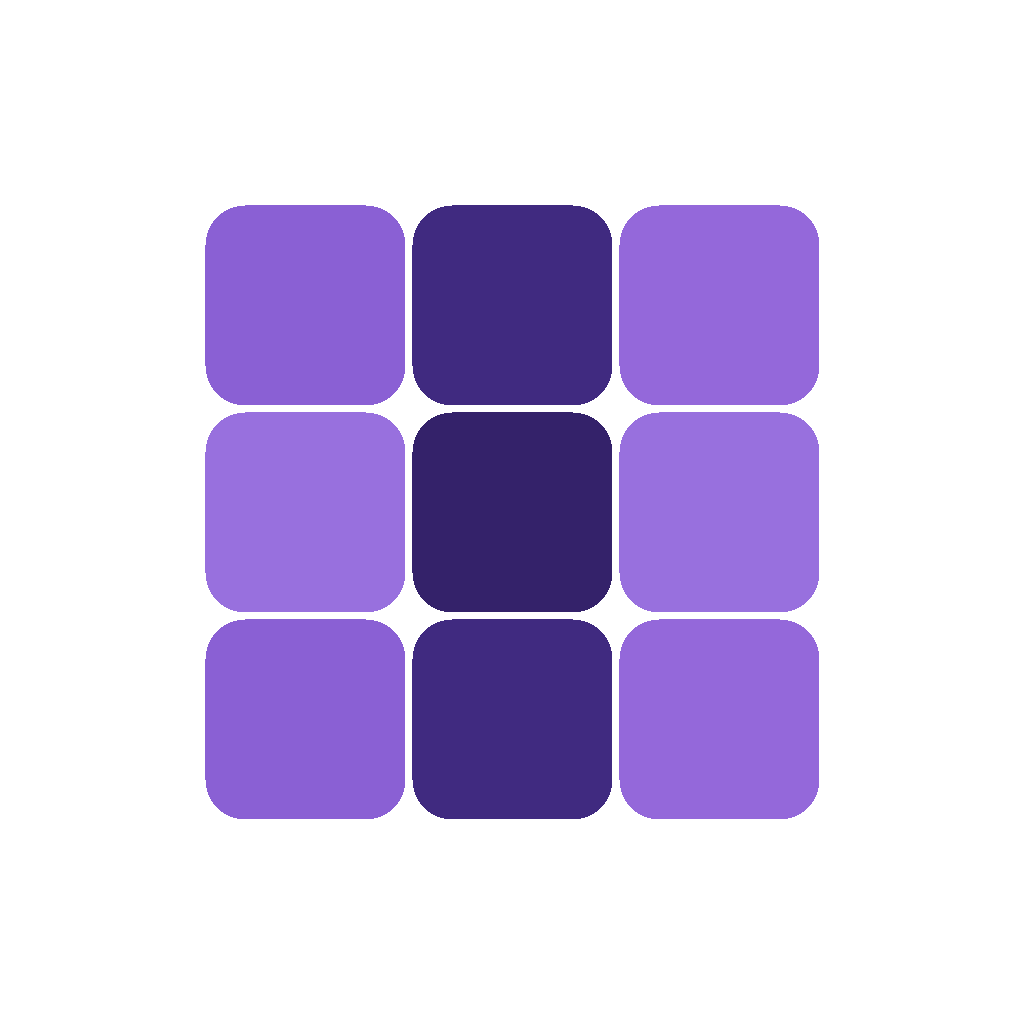
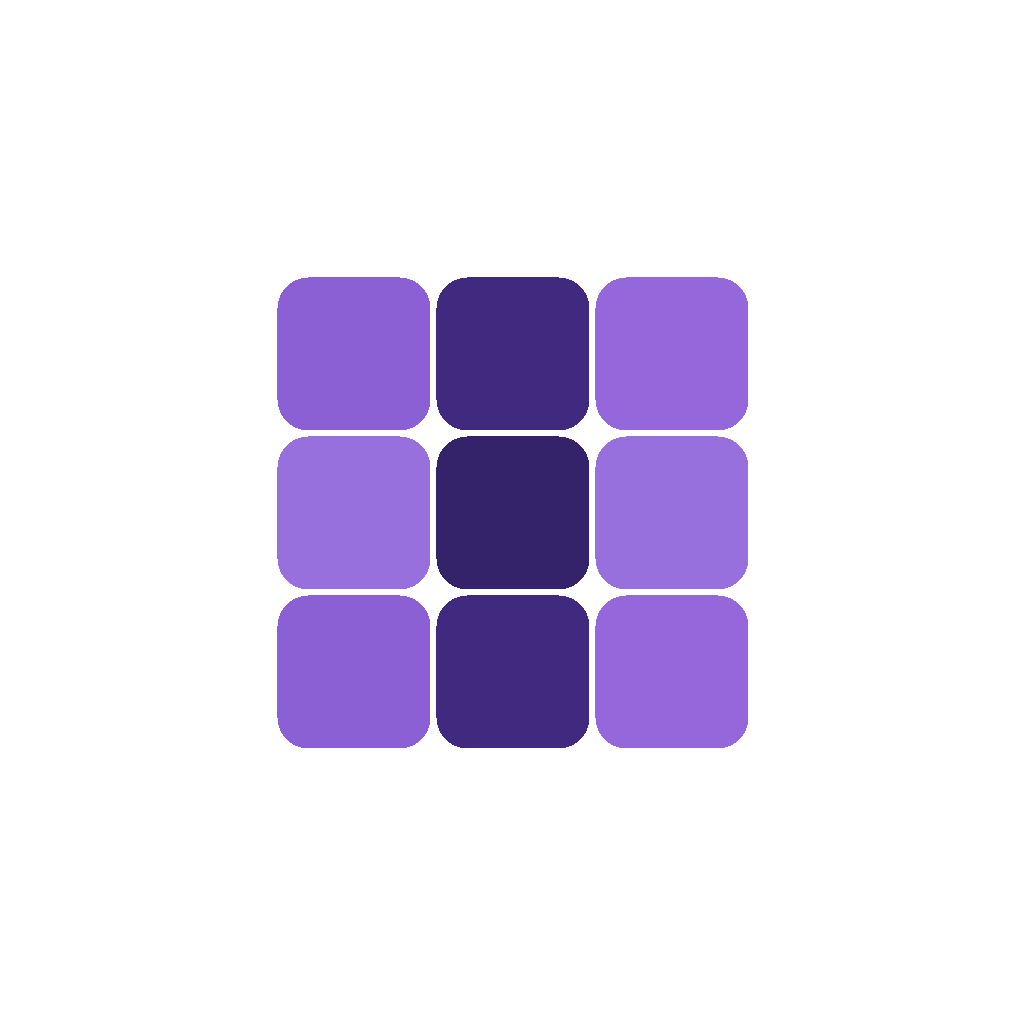
Phani/DP - UI fixes 24/04/2026 (2)

Changed region(s): [[0.1875, 0.1875, 0.8125, 0.8125]]

diff --git a/src/api/rooms.ts b/src/api/rooms.ts
@@ -6,6 +6,67 @@ import client from './client';
 import { RoomType, RoomDimensions, SavedDesign, ZoneRow } from '../types';
 import { ROOM_EMOJIS } from '../utils/format';
 
+// ── ZoneRow pattern packing ─────────────────────────────────
+// The backend Mongoose schema only stores a fixed set of ZoneRow
+// fields.  Pattern fields (patternType, tileBId, tileBName,
+// tileBImageUri, tileBColor) are NOT in the schema and get
+// stripped on save.  To survive the round-trip we serialise them
+// into the `pattern` string field (which IS persisted) as JSON
+// and restore them on load.
+//
+// Packed format:  JSON string  { p, pt, bi, bn, bu, bc }
+//   p  = original pattern value (e.g. "solid")
+//   pt = patternType
+//   bi = tileBId
+//   bn = tileBName
+//   bu = tileBImageUri
+//   bc = tileBColor
+
+function hasPatternMeta(row: any): boolean {
+  return !!(row.patternType || row.tileBId || row.tileBName || row.tileBImageUri || row.tileBColor);
+}
+
+/** Pack pattern fields into the `pattern` string for persistence. */
+export function packZoneRows(rows: ZoneRow[]): ZoneRow[] {
+  return rows.map(row => {
+    if (!hasPatternMeta(row)) return row;
+    const packed = JSON.stringify({
+      p:  row.pattern ?? 'solid',
+      pt: row.patternType,
+      bi: row.tileBId,
+      bn: row.tileBName,
+      bu: row.tileBImageUri,
+      bc: row.tileBColor,
+    });
+    // Return a copy with pattern fields removed (backend would strip
+    // them anyway) and the packed JSON in `pattern`.
+    const { patternType, tileBId, tileBName, tileBImageUri, tileBColor, ...rest } = row as any;
+    return { ...rest, pattern: packed };
+  });
+}
+
+/** Unpack pattern fields from the `pattern` string after loading. */
+export function unpackZoneRows(rows: ZoneRow[]): ZoneRow[] {
+  return rows.map(row => {
+    const p = row.pattern;
+    if (!p || !p.startsWith('{')) return row; // plain string like "solid" — nothing to unpack
+    try {
+      const meta = JSON.parse(p);
+      return {
+        ...row,
+        pattern:       meta.p ?? 'solid',
+        patternType:   meta.pt,
+        tileBId:       meta.bi,
+        tileBName:     meta.bn,
+        tileBImageUri: meta.bu,
+        tileBColor:    meta.bc,
+      };
+    } catch {
+      return row; // corrupt JSON — leave as-is
+    }
+  });
+}
+
 export interface ApiRoom {
   _id: string; name: string; roomType: RoomType;
   dimensions: { length: number; width: number; height: number };
@@ -29,7 +90,9 @@ export interface ApiRoom {
 
 export function mapRoom(r: ApiRoom): SavedDesign {
   // Pick the best tile preview — prefer selected tile, then first zone row with an image
-  const firstImgRow = r.zoneRows?.find(zr => !!zr.tileImageUri);
+  const rawRows = r.zoneRows ?? [];
+  const rows = unpackZoneRows(rawRows);
+  const firstImgRow = rows.find(zr => !!zr.tileImageUri);
   return {
     id: r._id, name: r.name, roomType: r.roomType,
     emoji: ROOM_EMOJIS[r.roomType] ?? '🏠',
@@ -40,7 +103,7 @@ export function mapRoom(r: ApiRoom): SavedDesign {
     tileImageUri:   r.selectedTileImageUri || firstImgRow?.tileImageUri,
     tileColor:      r.selectedTileColor || firstImgRow?.color,
     // Full restore state
-    zoneRows:         r.zoneRows ?? [],
+    zoneRows:         rows,
     wallColor:        r.wallColor ?? '#f0ebe4',
     selectedTileSize: r.selectedTileSize ?? '12x12',
     selectedTileId:   r.selectedTileId ?? '',
@@ -64,7 +127,7 @@ export interface SaveRoomPayload {
 
 export const getRooms    = async (): Promise<SavedDesign[]> => { const { data } = await client.get<{ success: boolean; rooms: ApiRoom[] }>('/api/rooms'); return data.rooms.map(mapRoom); };
 export const getRoomById = async (id: string): Promise<ApiRoom> => { const { data } = await client.get<{ success: boolean; room: ApiRoom }>(`/api/rooms/${id}`); return data.room; };
-export const saveRoom    = async (p: SaveRoomPayload): Promise<SavedDesign> => { const { data } = await client.post<{ success: boolean; room: ApiRoom }>('/api/rooms', p); return mapRoom(data.room); };
-export const updateRoom  = async (id: string, p: Partial<SaveRoomPayload>): Promise<SavedDesign> => { const { data } = await client.put<{ success: boolean; room: ApiRoom }>(`/api/rooms/${id}`, p); return mapRoom(data.room); };
+export const saveRoom    = async (p: SaveRoomPayload): Promise<SavedDesign> => { const packed = { ...p, zoneRows: p.zoneRows ? packZoneRows(p.zoneRows) : [] }; const { data } = await client.post<{ success: boolean; room: ApiRoom }>('/api/rooms', packed); return mapRoom(data.room); };
+export const updateRoom  = async (id: string, p: Partial<SaveRoomPayload>): Promise<SavedDesign> => { const packed = p.zoneRows ? { ...p, zoneRows: packZoneRows(p.zoneRows) } : p; const { data } = await client.put<{ success: boolean; room: ApiRoom }>(`/api/rooms/${id}`, packed); return mapRoom(data.room); };
 export const deleteRoom  = async (id: string): Promise<void> => { await client.delete(`/api/rooms/${id}`); };
 export const calcTilesApi = async (dimensions: any, tileSize: any) => { const { data } = await client.post('/api/rooms/calculate', { dimensions, tileSize }); return data; };

diff --git a/src/api/inventory.ts b/src/api/inventory.ts
@@ -4,6 +4,7 @@
 
 import client from './client';
 import { InventoryItem, ApiResponse } from '../types';
+import { packZoneRows, unpackZoneRows } from './rooms';
 
 export interface CreateInventoryPayload {
   name:                 string;
@@ -44,7 +45,8 @@ export async function getInventory(filters?: {
   const url = query ? `/api/inventory?${query}` : '/api/inventory';
 
   const res = await client.get<ApiResponse<InventoryItem[]>>(url);
-  return res.data.data || [];
+  const items = res.data.data || [];
+  return items.map(item => ({ ...item, zoneRows: unpackZoneRows(item.zoneRows ?? []) }));
 }
 
 // ── Get single inventory item ──
@@ -53,25 +55,30 @@ export async function getInventoryItem(id: string): Promise<InventoryItem> {
   if (!res.data.success || !res.data.data) {
     throw new Error('Inventory item not found');
   }
-  return res.data.data;
+  const item = res.data.data;
+  return { ...item, zoneRows: unpackZoneRows(item.zoneRows ?? []) };
 }
 
 // ── Create inventory item ──
 export async function createInventory(payload: CreateInventoryPayload): Promise<InventoryItem> {
-  const res = await client.post<ApiResponse<InventoryItem>>('/api/inventory', payload);
+  const packed = { ...payload, zoneRows: packZoneRows(payload.zoneRows ?? []) };
+  const res = await client.post<ApiResponse<InventoryItem>>('/api/inventory', packed);
   if (!res.data.success || !res.data.data) {
     throw new Error(res.data.message || 'Failed to create inventory item');
   }
-  return res.data.data;
+  const item = res.data.data;
+  return { ...item, zoneRows: unpackZoneRows(item.zoneRows ?? []) };
 }
 
 // ── Update inventory item ──
 export async function updateInventory(id: string, payload: Partial<CreateInventoryPayload>): Promise<InventoryItem> {
-  const res = await client.put<ApiResponse<InventoryItem>>(`/api/inventory/${id}`, payload);
+  const packed = payload.zoneRows ? { ...payload, zoneRows: packZoneRows(payload.zoneRows) } : payload;
+  const res = await client.put<ApiResponse<InventoryItem>>(`/api/inventory/${id}`, packed);
   if (!res.data.success || !res.data.data) {
     throw new Error(res.data.message || 'Failed to update inventory item');
   }
-  return res.data.data;
+  const item = res.data.data;
+  return { ...item, zoneRows: unpackZoneRows(item.zoneRows ?? []) };
 }
 
 // ── Delete inventory item ──

diff --git a/scripts/gen-icons.js b/scripts/gen-icons.js
@@ -87,15 +87,17 @@ function drawGrid(png, cx, cy, gs, gap) {
 }
 
 // ── 1. Main icon (used by iOS + web fallback) ─────────────────
-// Full-bleed dark background + centred tile grid at 64% of canvas.
+// Full-bleed dark background + centred tile grid.
+// iOS clips to a squircle (~10% off each edge), so keep the grid
+// well inside: 52% of canvas gives clean padding on all sides.
 async function genMainIcon() {
   const png = makePNG(SIZE, SIZE);
 
   // Solid dark background (iOS clips to squircle, no need for rounded rect here)
   fillRect(png, 0, 0, SIZE, SIZE, 0, BG[0], BG[1], BG[2]);
 
-  // Grid: 64% of canvas, tiny gap (1.2% of grid)
-  const gs  = Math.round(SIZE * 0.64);
+  // Grid: 52% of canvas, tiny gap (1.2% of grid)
+  const gs  = Math.round(SIZE * 0.52);
   const gap = Math.max(6, Math.round(gs * 0.012));
   drawGrid(png, SIZE / 2, SIZE / 2, gs, gap);
 
@@ -105,11 +107,11 @@ async function genMainIcon() {
 
 // ── 2. Adaptive foreground (transparent bg, grid in safe zone) ─
 // Android safe zone = inner 66% of 1024 = 676px.
-// We use 60% so the grid sits comfortably inside with breathing room.
+// We use 46% so the grid sits comfortably inside with good padding.
 async function genForeground() {
   const png = makePNG(SIZE, SIZE);   // starts transparent
 
-  const gs  = Math.round(SIZE * 0.60);
+  const gs  = Math.round(SIZE * 0.46);
   const gap = Math.max(6, Math.round(gs * 0.012));
   drawGrid(png, SIZE / 2, SIZE / 2, gs, gap);
 
@@ -128,7 +130,7 @@ async function genBackground() {
 // ── 4. Monochrome (for Android themed icons) ──────────────────
 async function genMonochrome() {
   const png = makePNG(SIZE, SIZE);
-  const gs  = Math.round(SIZE * 0.60);
+  const gs  = Math.round(SIZE * 0.46);
   const gap = Math.max(6, Math.round(gs * 0.012));
   const ts  = Math.round((gs - gap * 2) / 3);
   const rad = Math.round(ts * 0.20);

diff --git a/src/three/room-builder.ts b/src/three/room-builder.ts
@@ -89,6 +89,8 @@ export function buildRoom(scene:THREE.Scene,cfg:RoomBuildConfig,pl:THREE.PointLi
     [{key:'wall_n',pw:W,rotY:0,px:0,pz:-L/2,rh:W/tw},{key:'wall_s',pw:W,rotY:Math.PI,px:0,pz:L/2,rh:W/tw},
      {key:'wall_e',pw:L,rotY:-Math.PI/2,px:W/2,pz:0,rh:L/tw},{key:'wall_w',pw:L,rotY:Math.PI/2,px:-W/2,pz:0,rh:L/tw}
     ].forEach(wd=>{
+      // Balcony: skip the south wall (railing side — open air)
+      if(rt==='balcony'&&wd.key==='wall_s') return;
       if(shouldTileWall(wd.key)){
         // Below counter: plain painted wall (kitchen only)
         if(kitchenCounterY>0){
